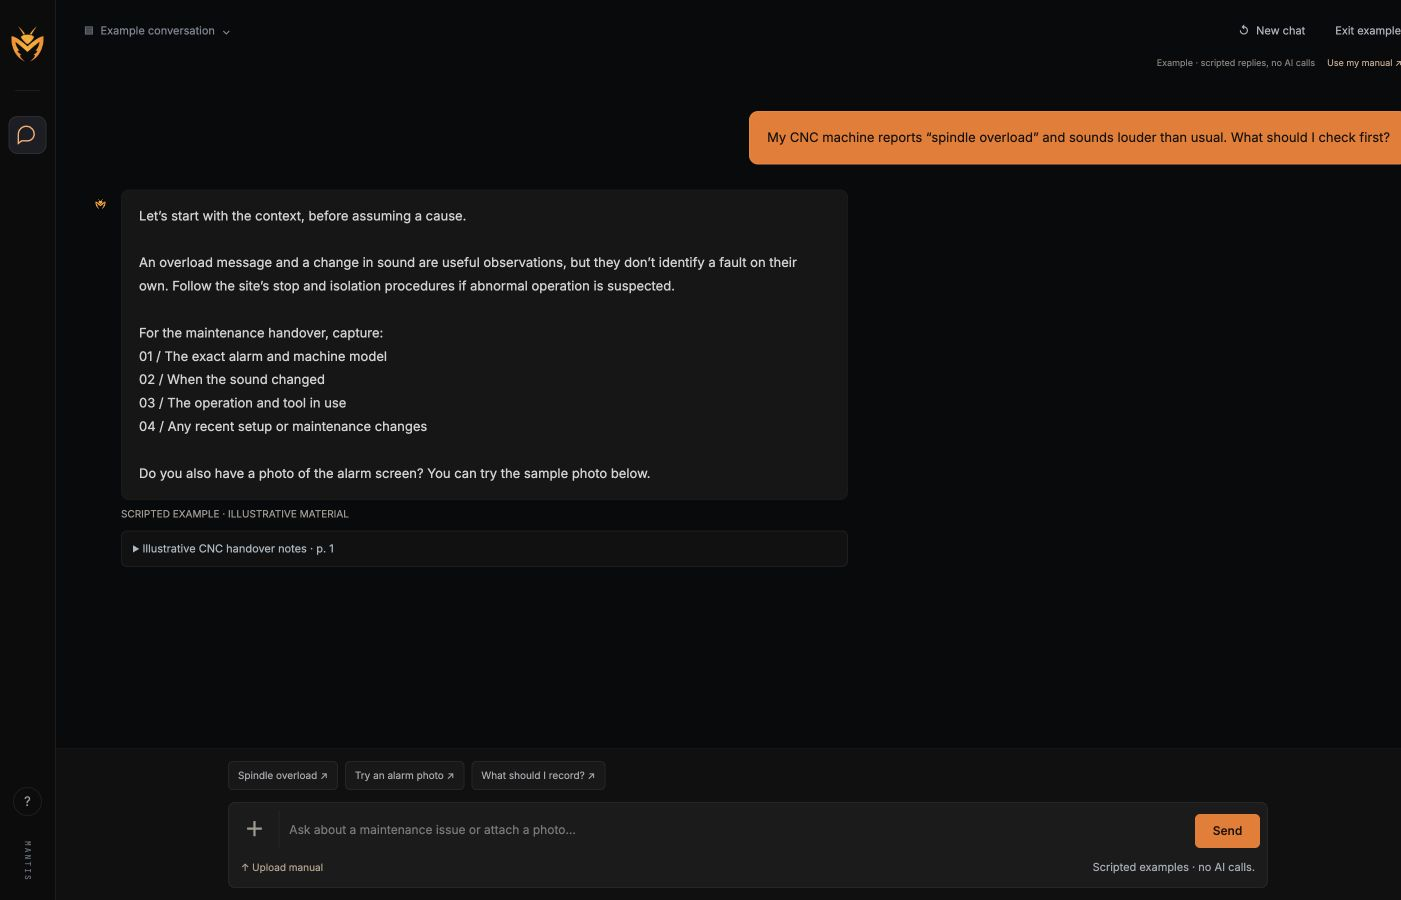
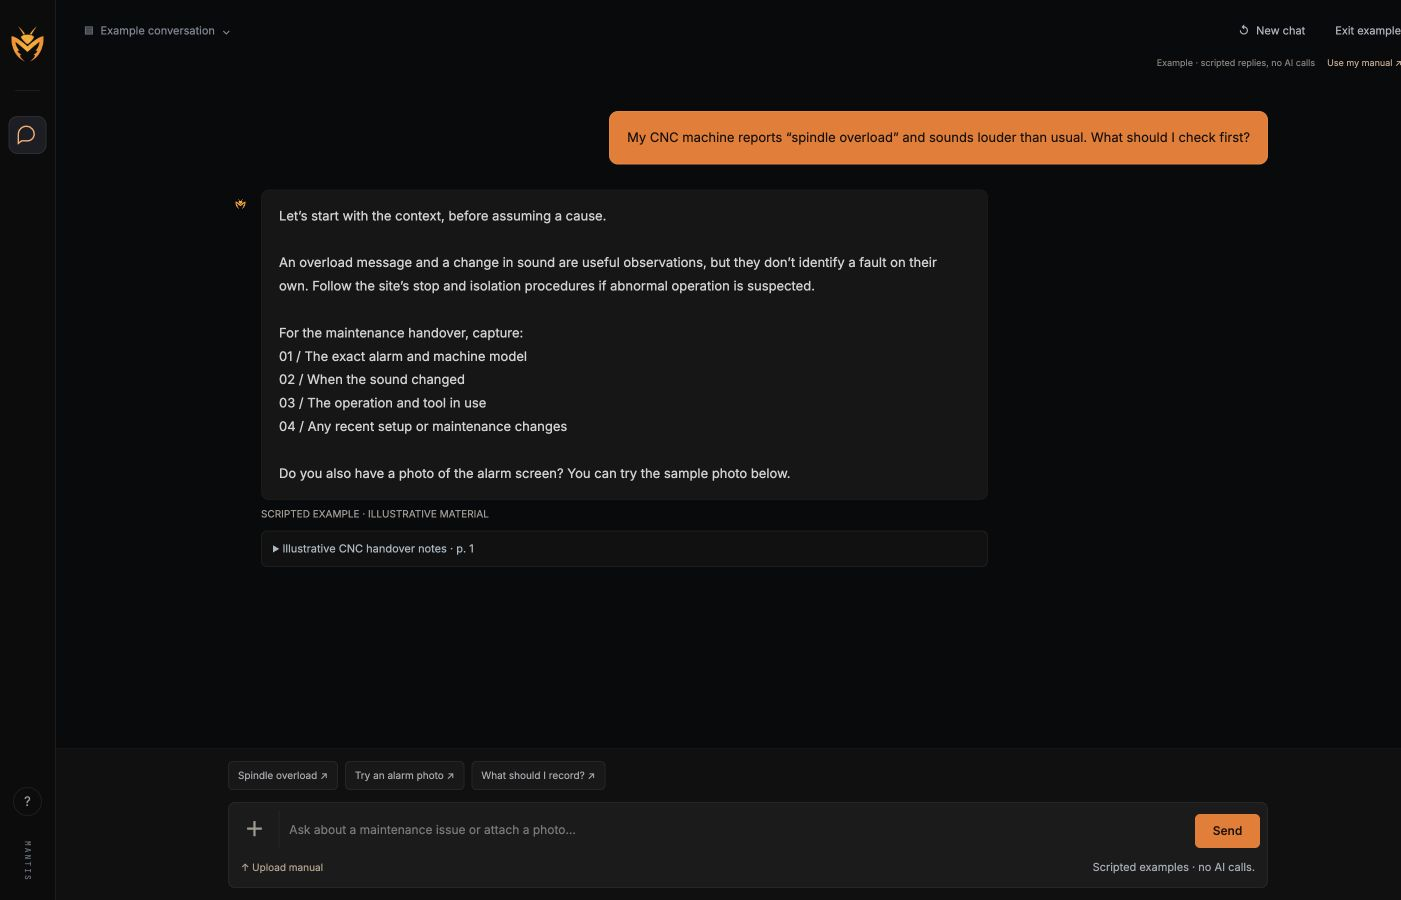
Align conversation and composer columns and refresh README example

diff --git a/mantis/web/css/workspace.css b/mantis/web/css/workspace.css
@@ -7,6 +7,8 @@
   --muted: #9a9faa;
   --orange: #ff8a35;
   --mono: "JetBrains Mono", monospace;
+  --conversation-width: 1040px;
+  --conversation-gutter: 32px;
 }
 * {
   box-sizing: border-box;
@@ -216,7 +218,7 @@ button {
   overscroll-behavior: contain;
   scrollbar-width: thin;
   scrollbar-color: #353940 transparent;
-  padding: 32px 32px 18px;
+  padding: 32px var(--conversation-gutter) 18px;
 }
 .welcome {
   width: min(680px, 100%);
@@ -242,6 +244,8 @@ button {
 }
 #messages {
   width: 100%;
+  max-width: var(--conversation-width);
+  margin-inline: auto;
   display: flex;
   flex-direction: column;
   gap: 25px;
@@ -345,6 +349,9 @@ button {
   border-color: #ffffff26;
 }
 .pending {
+  width: 100%;
+  max-width: var(--conversation-width);
+  margin-inline: auto;
   font-size: 12px;
   color: #cf8f58;
   letter-spacing: 3px;
@@ -352,12 +359,12 @@ button {
 }
 .composer-shell {
   width: 100%;
-  padding: 12px 32px 12px;
+  padding: 12px var(--conversation-gutter);
   background: #101010;
   border-top: 1px solid #ffffff05;
 }
 .composer-shell > * {
-  max-width: 1040px;
+  max-width: var(--conversation-width);
   margin-left: auto;
   margin-right: auto;
 }
@@ -739,8 +746,11 @@ dialog input {
   .mode-banner button {
     font-size: 8px;
   }
+  .chat-app {
+    --conversation-gutter: 10px;
+  }
   .chat-scroll {
-    padding: 20px 13px 16px;
+    padding: 20px var(--conversation-gutter) 16px;
   }
   .welcome {
     margin: 5vh auto 25px;
@@ -772,7 +782,7 @@ dialog input {
     height: 155px;
   }
   .composer-shell {
-    padding: 10px 10px 9px;
+    padding: 10px var(--conversation-gutter) 9px;
   }
   .composer {
     gap: 7px;

diff --git a/docs/verification.md b/docs/verification.md
@@ -54,3 +54,5 @@ Saved-chat tests cover persistence, workspace isolation, deletion, revision conf
 Browser checks for Your chats verified automatic save, reopening after a fresh page load, continuing a restored conversation, separate manuals/chats drawers, and mobile access without horizontal overflow or application console errors.
 
 Review regressions simulate Windows-normalized asset paths and a second writer immediately after a chat transaction commits. The workspace controller is also exercised with a DOM double and deferred requests: blocked manual changes/deletion during failed or pending saves, retry during a follow-up, removed-manual recovery, discard confirmation, and successful upload selection. These are state/interaction tests, not browser layout checks.
+
+Conversation alignment was checked at 1440 × 900 and 390 × 844: the transcript and composer share both horizontal boundaries, user/reply/source blocks remain inside that column, and neither viewport has horizontal overflow. The README chat screenshot reflects this layout.

diff --git a/docs/assets/README.md b/docs/assets/README.md
@@ -3,7 +3,7 @@
 - `banner.svg`: editable artwork for the GitHub README, using the existing Mantis mark and black/orange project identity.
 - `banner.png`: 1280 × 400 raster export, so GitHub renders the bundled Anton and Space Mono typography consistently.
 - `product-hero.png`: desktop screenshot of only the landing page’s first screen, used near the start of the README.
-- `chat-example.png`: separate screenshot of the actual scripted chat, used in the README’s example instructions.
+- `chat-example.png`: separate screenshot of the actual scripted chat with conversation and composer aligned to the same content column, used in the README’s example instructions.
 - `product.jpg`: earlier full-page product screenshot, retained for reference.
 - `workspace.jpg`: screenshot of the actual Your chats drawer with a saved example conversation and no private manuals or credentials.
 
